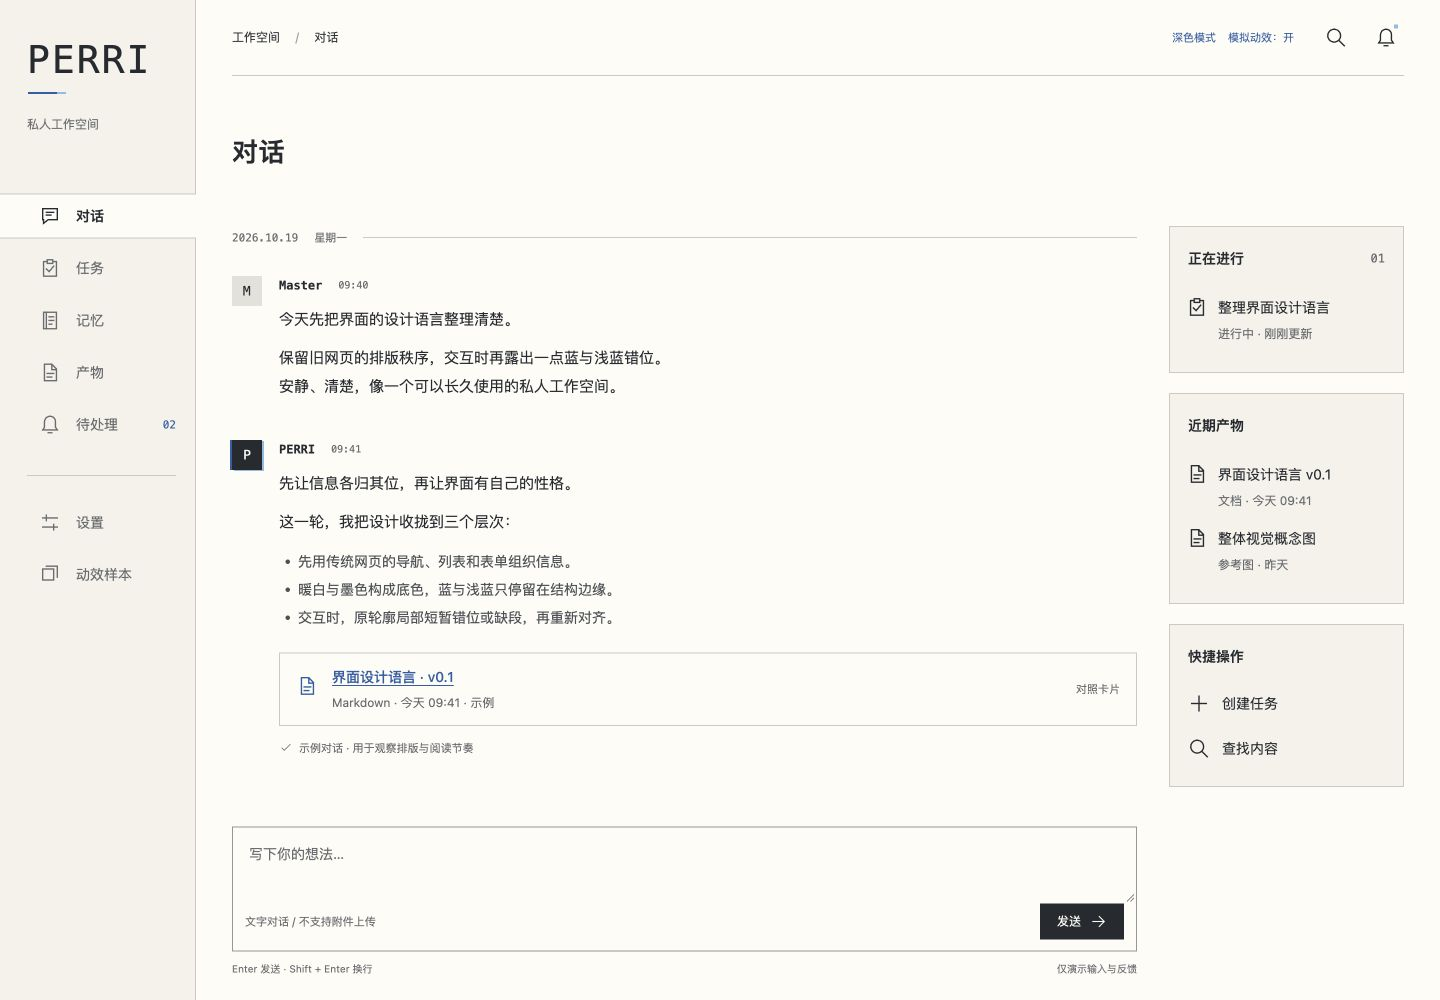
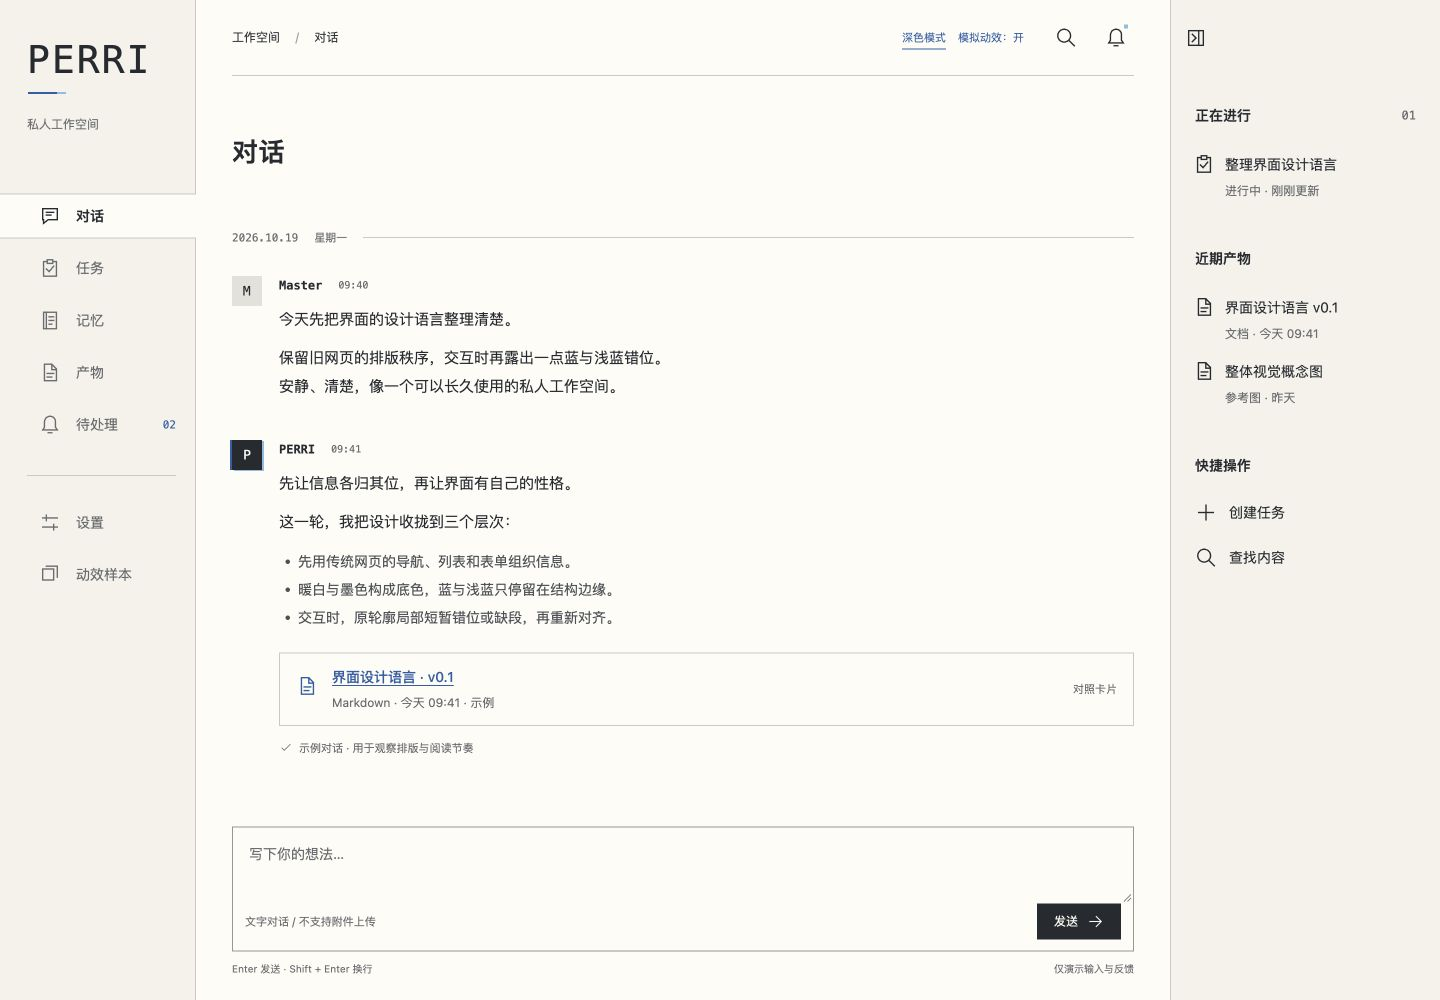
Unify activity groups into collapsible full-height rail

diff --git a/prototype.js b/prototype.js
@@ -2,6 +2,22 @@
 // Body paths never include helper rays, reticles, trails, or animation-only marks.
 // Sampling regions refer to normalized portions of these exact body paths.
 const geometry = {
+  collapseRail: {
+    body: ["M4 4h16v16H4z", "M15 4v16", "M8 8l4 4-4 4"],
+    regions: [
+      [0, 10, 20],
+      [1, 20, 35],
+      [2, 10, 40],
+    ],
+  },
+  expandRail: {
+    body: ["M4 4h16v16H4z", "M15 4v16", "M11 8l-4 4 4 4"],
+    regions: [
+      [0, 10, 20],
+      [1, 20, 35],
+      [2, 10, 40],
+    ],
+  },
   attention: {
     body: ["M12 3a6 6 0 0 0-6 6v6l-2 3h16l-2-3V9a6 6 0 0 0-6-6", "M10 21h4"],
     regions: [
@@ -214,6 +230,8 @@ function render() {
     `工作空间 <span>/</span> ${pages.find((p) => p[0] === current)[1]}`;
   const switching = renderedPage !== current;
   main.innerHTML = `<div class="page ${switching ? "page-enter" : ""}">${views[current]()}</div>`;
+  document.querySelector("#activity-content").innerHTML = activityContent();
+  updateActivityRail();
   renderedPage = current;
   if (current === "conversation") restoreMessages();
   if (focusedNavigation)
@@ -227,8 +245,30 @@ function render() {
 }
 let sentMessages = [],
   pendingAttention = true;
+let activityCollapsed = window.matchMedia("(max-width:850px)").matches;
+function activityContent() {
+  return `<section class="note-section"><h2 class="section-label">正在进行 <small>01</small></h2><button class="recent-item" data-action="task-01">${icon("tasks")}<span><strong>整理界面设计语言</strong><small>进行中 · 刚刚更新</small></span></button></section><section class="note-section"><h2 class="section-label">近期产物</h2><button class="recent-item" data-action="open-artifact">${icon("file")}<span><strong>界面设计语言 v0.1</strong><small>文档 · 今天 09:41</small></span></button><button class="recent-item" data-action="concept">${icon("file")}<span><strong>整体视觉概念图</strong><small>参考图 · 昨天</small></span></button></section><section class="note-section"><h2 class="section-label">快捷操作</h2><div class="quick-links"><button data-action="new-task">${icon("plus")}创建任务</button><button data-action="search">${icon("search")}查找内容</button></div></section>`;
+}
+function updateActivityRail() {
+  const rail = document.querySelector("#activity-rail");
+  const shown = current === "conversation";
+  rail.hidden = !shown;
+  document.querySelector(".workspace").classList.toggle("has-activity", shown);
+  document
+    .querySelector(".workspace")
+    .classList.toggle("activity-collapsed", activityCollapsed);
+  document.querySelector("#activity-content").hidden = activityCollapsed;
+  const toggle = document.querySelector("#activity-toggle");
+  toggle.setAttribute("aria-expanded", String(!activityCollapsed));
+  toggle.setAttribute(
+    "aria-label",
+    activityCollapsed ? "展开活动栏" : "收起活动栏",
+  );
+  toggle.title = activityCollapsed ? "展开活动栏" : "收起活动栏";
+  toggle.innerHTML = icon(activityCollapsed ? "expandRail" : "collapseRail");
+}
 function conversation() {
-  return `${heading("对话", "CONVERSATION", "")}<div class="conversation-layout"><section class="conversation" aria-label="对话记录"><div class="conversation-title">2026.10.19 <span>星期一</span></div><div id="messages"><article class="message"><div class="avatar">M</div><div><div class="message-meta"><strong>Master</strong><time>09:40</time></div><p>今天先把界面的设计语言整理清楚。</p><p>保留旧网页的排版秩序，交互时再露出一点蓝与浅蓝错位。<br>安静、清楚，像一个可以长久使用的私人工作空间。</p></div></article><article class="message"><div class="avatar assistant">P</div><div><div class="message-meta"><strong>PERRI</strong><time>09:41</time></div><p>先让信息各归其位，再让界面有自己的性格。</p><p>这一轮，我把设计收拢到三个层次：</p><ul><li>先用传统网页的导航、列表和表单组织信息。</li><li>暖白与墨色构成底色，蓝与浅蓝只停留在结构边缘。</li><li>交互时，原轮廓局部短暂错位或缺段，再重新对齐。</li></ul><div class="artifact-strip"><span class="file-icon">${icon("file")}</span><div><button class="text-button file-name" data-action="open-artifact">界面设计语言 · v0.1</button><small>Markdown · 今天 09:41 · 示例</small></div><button class="text-button" data-action="file-style-toggle" aria-pressed="false">对照卡片</button></div><div class="message-foot">${icon("check")} 示例对话 · 用于观察排版与阅读节奏</div></div></article></div><form class="composer" id="message-form"><div class="composer-box"><textarea id="message-input" aria-label="消息内容" placeholder="写下你的想法…" rows="2"></textarea><div class="composer-toolbar"><span>文字对话 <span aria-hidden="true">/</span> 不支持附件上传</span><button class="button primary send-launch" type="submit"><span class="send-label">发送</span> ${icon("send")}</button></div></div><div class="composer-help"><span>Enter 发送 · Shift + Enter 换行</span><span>仅演示输入与反馈</span></div></form></section><aside class="margin-notes"><section class="note-section"><h2 class="section-label">正在进行 <small>01</small></h2><button class="recent-item" data-action="task-01">${icon("tasks")}<span><strong>整理界面设计语言</strong><small>进行中 · 刚刚更新</small></span></button></section><section class="note-section"><h2 class="section-label">近期产物</h2><button class="recent-item" data-action="open-artifact">${icon("file")}<span><strong>界面设计语言 v0.1</strong><small>文档 · 今天 09:41</small></span></button><button class="recent-item" data-action="concept">${icon("file")}<span><strong>整体视觉概念图</strong><small>参考图 · 昨天</small></span></button></section><section class="note-section"><h2 class="section-label">快捷操作</h2><div class="quick-links"><button data-action="new-task">${icon("plus")}创建任务</button><button data-action="search">${icon("search")}查找内容</button></div></section></aside></div>`;
+  return `${heading("对话", "CONVERSATION", "")}<div class="conversation-layout"><section class="conversation" aria-label="对话记录"><div class="conversation-title">2026.10.19 <span>星期一</span></div><div id="messages"><article class="message"><div class="avatar">M</div><div><div class="message-meta"><strong>Master</strong><time>09:40</time></div><p>今天先把界面的设计语言整理清楚。</p><p>保留旧网页的排版秩序，交互时再露出一点蓝与浅蓝错位。<br>安静、清楚，像一个可以长久使用的私人工作空间。</p></div></article><article class="message"><div class="avatar assistant">P</div><div><div class="message-meta"><strong>PERRI</strong><time>09:41</time></div><p>先让信息各归其位，再让界面有自己的性格。</p><p>这一轮，我把设计收拢到三个层次：</p><ul><li>先用传统网页的导航、列表和表单组织信息。</li><li>暖白与墨色构成底色，蓝与浅蓝只停留在结构边缘。</li><li>交互时，原轮廓局部短暂错位或缺段，再重新对齐。</li></ul><div class="artifact-strip"><span class="file-icon">${icon("file")}</span><div><button class="text-button file-name" data-action="open-artifact">界面设计语言 · v0.1</button><small>Markdown · 今天 09:41 · 示例</small></div><button class="text-button" data-action="file-style-toggle" aria-pressed="false">对照卡片</button></div><div class="message-foot">${icon("check")} 示例对话 · 用于观察排版与阅读节奏</div></div></article></div><form class="composer" id="message-form"><div class="composer-box"><textarea id="message-input" aria-label="消息内容" placeholder="写下你的想法…" rows="2"></textarea><div class="composer-toolbar"><span>文字对话 <span aria-hidden="true">/</span> 不支持附件上传</span><button class="button primary send-launch" type="submit"><span class="send-label">发送</span> ${icon("send")}</button></div></div><div class="composer-help"><span>Enter 发送 · Shift + Enter 换行</span><span>仅演示输入与反馈</span></div></form></section></div>`;
 }
 function tasksView() {
   const shown = tasks.filter(
@@ -348,6 +388,11 @@ function searchResults(query = "") {
     : '<p class="empty">没有匹配的页面。</p>';
 }
 const actions = {
+  "activity-toggle": () => {
+    window.signalController?.clearAll();
+    activityCollapsed = !activityCollapsed;
+    updateActivityRail();
+  },
   "file-style-toggle": (el) => {
     const card = document
       .querySelector(".artifact-strip")

diff --git a/style.css b/style.css
@@ -2216,3 +2216,90 @@ html[data-theme="dark"] .send-launch {
     margin: 0;
   }
 }
+
+/* Accepted three-frame baseline: one continuous activity rail. */
+.workspace.has-activity {
+  grid-template-columns: 196px minmax(0, 1fr) 270px;
+}
+.workspace.has-activity.activity-collapsed {
+  grid-template-columns: 196px minmax(0, 1fr) 48px;
+}
+#activity-rail {
+  min-width: 0;
+  border-left: 1px solid var(--line);
+  background: var(--sidebar-paper);
+  align-self: stretch;
+}
+#activity-rail[hidden],
+#activity-content[hidden] {
+  display: none;
+}
+.activity-inner {
+  position: sticky;
+  top: 0;
+  height: 100dvh;
+  overflow-y: auto;
+  scrollbar-gutter: stable;
+}
+.activity-header {
+  height: 76px;
+  display: flex;
+  align-items: center;
+  padding-left: 8px;
+}
+#activity-toggle {
+  flex: 0 0 32px;
+}
+#activity-content {
+  padding: 28px 24px;
+}
+#activity-rail .note-section {
+  border: 0;
+  background: transparent;
+  padding: 0;
+  margin: 0 0 38px;
+}
+.conversation-layout {
+  grid-template-columns: minmax(0, 1fr);
+}
+@media (max-width: 1100px) {
+  .workspace.has-activity {
+    grid-template-columns: 166px minmax(0, 1fr) 230px;
+  }
+  .workspace.has-activity.activity-collapsed {
+    grid-template-columns: 166px minmax(0, 1fr) 48px;
+  }
+  #activity-content {
+    padding: 24px 18px;
+  }
+}
+@media (max-width: 850px) {
+  .workspace.has-activity,
+  .workspace.has-activity.activity-collapsed {
+    grid-template-columns: 166px minmax(0, 1fr) 48px;
+  }
+  #activity-rail {
+    position: relative;
+    z-index: 5;
+  }
+  .has-activity:not(.activity-collapsed) .activity-inner {
+    position: fixed;
+    right: 0;
+    width: min(270px, calc(100vw - 64px));
+    border-left: 1px solid var(--line);
+    background: var(--sidebar-paper);
+  }
+}
+@media (max-width: 600px) {
+  .workspace.has-activity,
+  .workspace.has-activity.activity-collapsed {
+    grid-template-columns: 64px minmax(0, 1fr) 48px;
+  }
+}
+.activity-inner {
+  overflow-x: hidden;
+}
+.activity-collapsed .activity-inner {
+  overflow: hidden;
+  scrollbar-gutter: auto;
+}

diff --git a/index.html b/index.html
@@ -4,7 +4,7 @@
     <meta charset="UTF-8" />
     <meta name="viewport" content="width=device-width,initial-scale=1" />
     <title>PERRI · 样式探索</title>
-    <link rel="stylesheet" href="style.css?v=09r1" />
+    <link rel="stylesheet" href="style.css?v=09r2" />
   </head>
   <body>
     <div class="workspace">
@@ -59,6 +59,21 @@
           ><span>样式预览 <b> / </b> v0.9</span>
         </footer>
       </div>
+      <aside id="activity-rail" aria-label="当前活动" hidden>
+        <div class="activity-inner">
+          <header class="activity-header">
+            <button
+              id="activity-toggle"
+              class="icon-button"
+              data-action="activity-toggle"
+              aria-controls="activity-content"
+              aria-expanded="true"
+              aria-label="收起活动栏"
+            ></button>
+          </header>
+          <div id="activity-content"></div>
+        </div>
+      </aside>
     </div>
     <dialog id="dialog" aria-labelledby="dialog-title">
       <div class="dialog-head">
@@ -70,7 +85,7 @@
       <div id="dialog-content"></div>
     </dialog>
     <div id="toast" role="status"></div>
-    <script src="signal-motion.js?v=09r1"></script>
-    <script src="prototype.js?v=09r1"></script>
+    <script src="signal-motion.js?v=09r2"></script>
+    <script src="prototype.js?v=09r2"></script>
   </body>
 </html>

diff --git a/preview/v09/VALIDATION.md b/preview/v09/VALIDATION.md
@@ -1,9 +1,10 @@
 # v0.9 验证
 
-- Node生命周期/结构测试18项通过；JS语法、静态资源、git diff检查通过。
+- Node生命周期/结构测试19项通过；JS语法、静态资源、git diff检查通过。
 - 内嵌浏览器固定A通知样本：分别冻结三帧，读取computed opacity为[1,0,0]、[0,1,0]、[0,0,1]。第三帧截图third-frame.png。
 - 同一控件两帧31个临时后代节点、三帧45个；正常播放结束后0个。冻结帧切换及2/3切换均能重新触发。
 - A/B/C分别触发，关闭动效后发送样本无surface/trail残留。发送动作的原版箭头关键位置由回归测试覆盖，本轮不声称对原生输入法做了验收。
-- Chrome 1440×1000浅/深色截图light.png、dark.png：右栏三个完整边框与左栏同色背景。480×800窄屏截图narrow.png：活动模块转到正文下方，创建任务入口可打开并关闭原表单。
-- 原文件条目孤立左线补齐外框，动效比较网格补齐上/左外边界；说明栏同样完整成框。布局主体列宽不变。
+- Chrome 1440×1000浅/深色截图light.png、dark.png：右栏合成一个通顶通底侧栏，与左栏同色背景。480×800窄屏截图narrow.png：窄屏默认收起为48px轨道，展开覆盖右侧，正文不重排。
+- 新增收起/展开图标使用共享三帧pointerover生命周期；测试验证两个图标均创建三组故障层，移出清理节点与计时器。浏览器确认鼠标收起、Enter展开、草稿保留、aria-expanded与hidden同步。侧栏切换不重建消息及输入DOM。
+- collapsed.png为桌面收起状态；light.png/dark.png为最新展开状态。
 - 未建立Tauri应用，未测原生CPU/GPU/功耗；性能结论和测量边界见TAURI-MOTION-COST.md。

diff --git a/README.md b/README.md
@@ -1,6 +1,6 @@
 # Secretary Phase UI Design
 
-PERRI / Secretary 的独立 UI 样式探索稿，当前 **v0.9**，以 **已确认的 v0.8（1b459bc）** 为基线。保留三栏空间、页面与示例流程，调整显示故障、目录接边和提交边界反馈。
+PERRI / Secretary 的独立 UI 样式探索稿，当前 **v0.9**，三帧效果已确认为基线。保留三栏空间、页面与示例流程，调整显示故障、目录接边和提交边界反馈。
 
 这是可点击的静态设计稿，没有后端、框架、构建过程、外部字体或运行时依赖。所有内容为人工示例，界面不会执行真实业务。
 
@@ -67,4 +67,4 @@ python3 scripts/check-preview.py
 
 ## v0.9 模块边界
 
-右侧“正在进行”“近期产物”“快捷操作”分别使用完整直角边框和与左侧相同的 `--sidebar-paper` 背景。其他页面说明栏同样成框。原有文件条目孤立左线与动效网格悬空竖线改为接通模块上下边界；不移动文字或全局压缩间距。窄屏活动模块移到正文下方。
+右侧“正在进行”“近期产物”“快捷操作”合为一个独立活动侧栏，与左侧同用 `--sidebar-paper` 背景。活动栏位于工作区第三列，通顶通底，不再给三个分组分别画框。其他页面说明栏同样成框。原有文件条目孤立左线与动效网格悬空竖线改为接通模块上下边界；不移动文字或全局压缩间距。活动栏可收起为48px窄轨。窄屏默认收起，展开覆盖右侧区域，正文不因展开而重排。切换只修改布局状态和hidden/aria-expanded，不重建输入或消息；图标悬停/聚焦使用同一三帧phase，文字与模块无装饰位移。

diff --git a/Simulated_Old_Web_Design_Language_v0.1.md b/Simulated_Old_Web_Design_Language_v0.1.md
@@ -1,6 +1,6 @@
 # 被模拟的旧互联网
 
-设计规范 · 当前修订 v0.9。以 已确认的 v0.8（1b459bc）为实施基线，保留三栏宽度、页面组织与主要流程。旧版本目录及入口全部移除，仅保留当前版本。
+设计规范 · 当前修订 v0.9。以已确认的 v0.9 三帧效果为实施基线，保留三栏宽度、页面组织与主要流程。旧版本目录及入口全部移除，仅保留当前版本。
 
 **源几何保持稳定；显示层可以通过分带裁切、局部位移与缺采样形成短暂故障；交互结束后恢复原始完整图形。**
 
@@ -85,4 +85,4 @@
 
 ## v0.9 模块边界
 
-右侧“正在进行”“近期产物”“快捷操作”分别使用完整直角边框和与左侧相同的 `--sidebar-paper` 背景。其他页面说明栏同样成框。原有文件条目孤立左线与动效网格悬空竖线改为接通模块上下边界；不移动文字或全局压缩间距。窄屏活动模块移到正文下方。
+右侧“正在进行”“近期产物”“快捷操作”合为一个独立活动侧栏，与左侧同用 `--sidebar-paper` 背景。活动栏位于工作区第三列，通顶通底，不再给三个分组分别画框。其他页面说明栏同样成框。原有文件条目孤立左线与动效网格悬空竖线改为接通模块上下边界；不移动文字或全局压缩间距。活动栏可收起为48px窄轨。窄屏默认收起，展开覆盖右侧区域，正文不因展开而重排。切换只修改布局状态和hidden/aria-expanded，不重建输入或消息；图标悬停/聚焦使用同一三帧phase，文字与模块无装饰位移。
